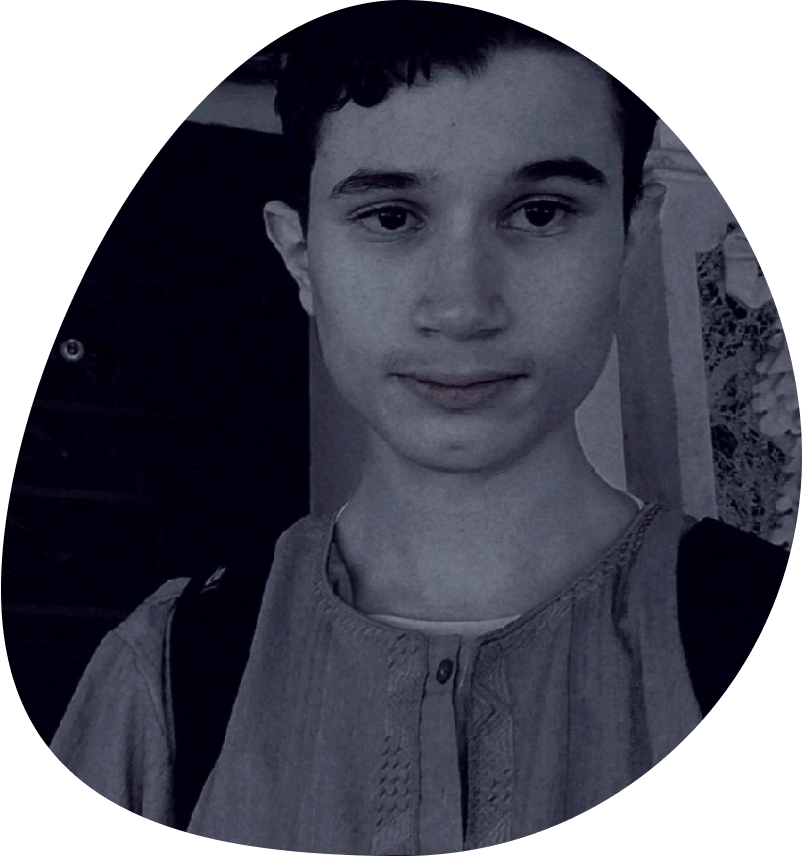
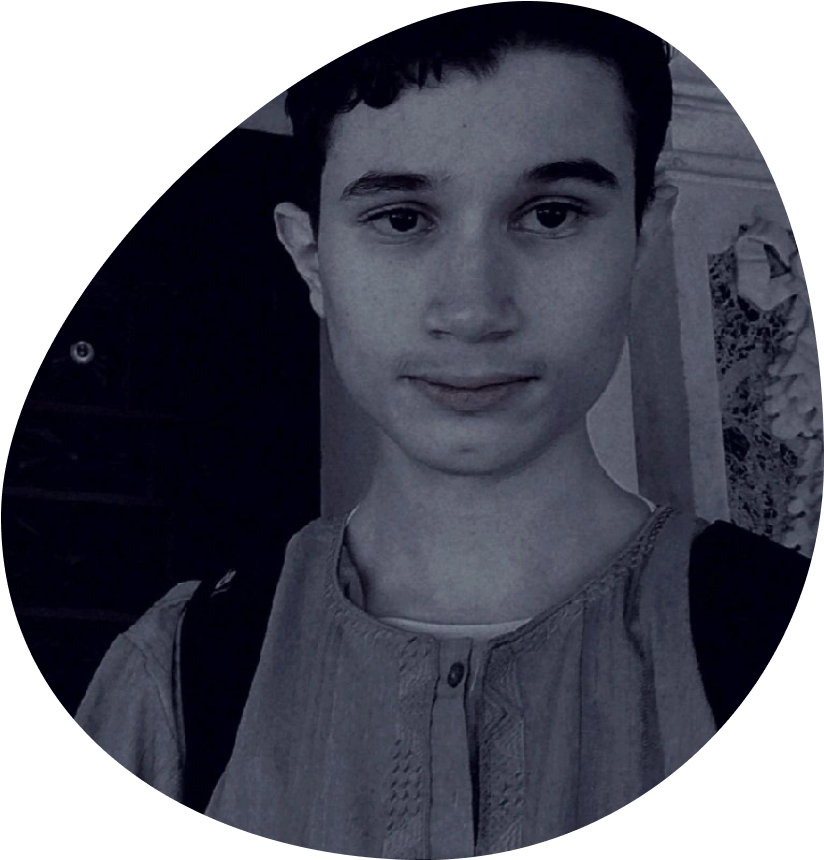
update

diff --git a/src/components/About.jsx b/src/components/About.jsx
@@ -33,6 +33,7 @@ const About = () => {
           <div class="founder-card">
             <h4 className='font-semibold text-lg'>Hey, I’m Amjed Bellir</h4>
             <p className='py-5 w-8/12'>the 21-year-old creator of BINATNA. As a full-stack web developer and IT grad, I’m all about making secure and fun chat platforms. <br/> Thanks for choosing My platform. Enjoy the privacy and fun. Reach out anytime with questions or feedback!</p>
+            <img src={founder} className="absolute right-28 top-5 h-60" />
           </div>
         </div>
       </div>

diff --git a/src/index.css b/src/index.css
@@ -41,7 +41,7 @@ body {
 .hero {
   position: relative;
   width: 100%;
-  height: 100vh;
+  height: 99vh;
   background: #219EBC;
   overflow: hidden;
 }
